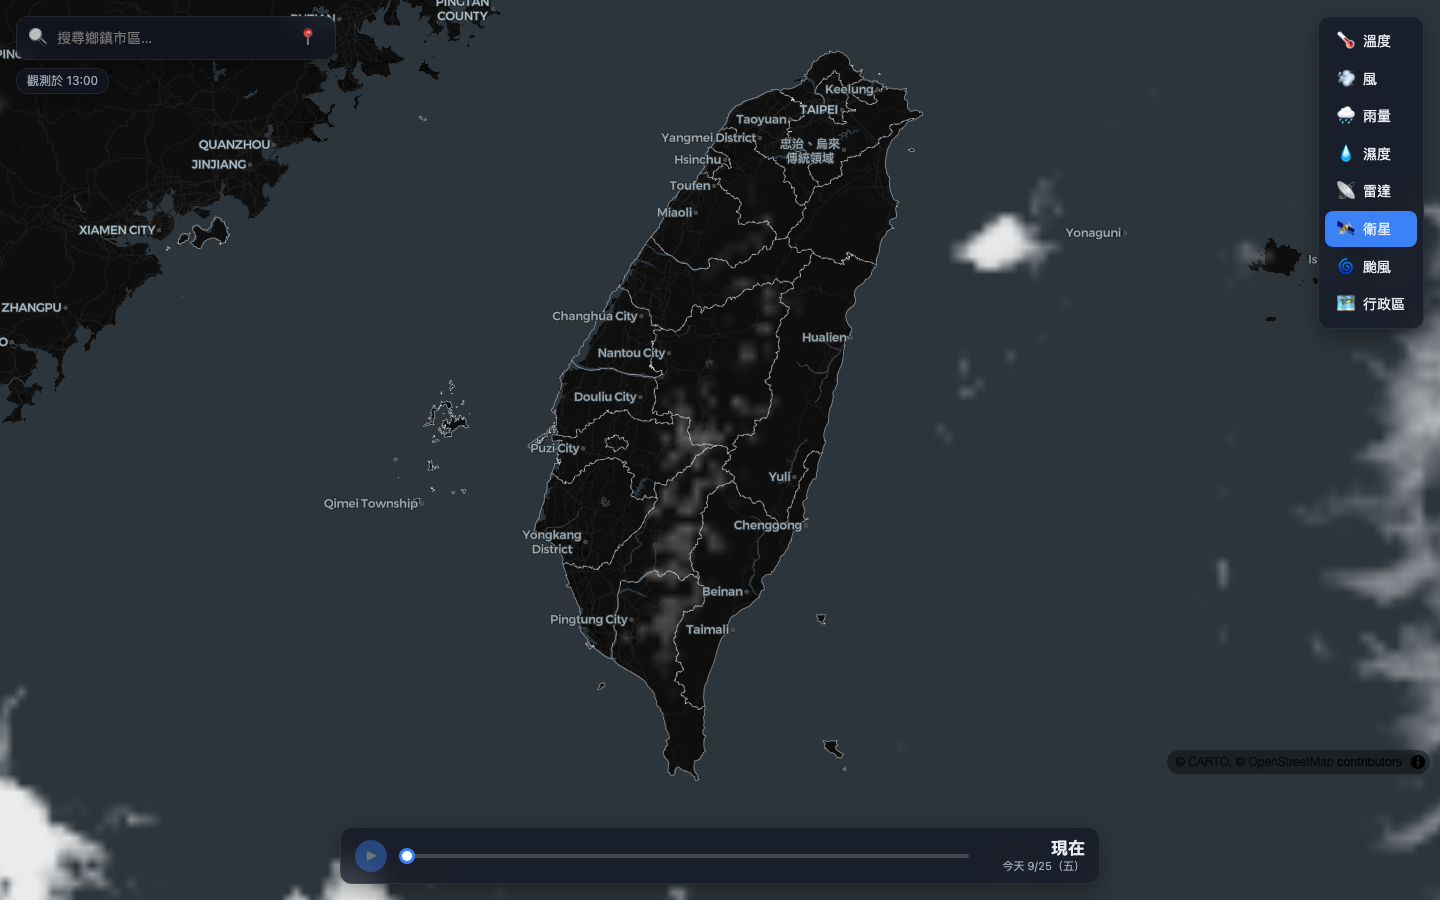
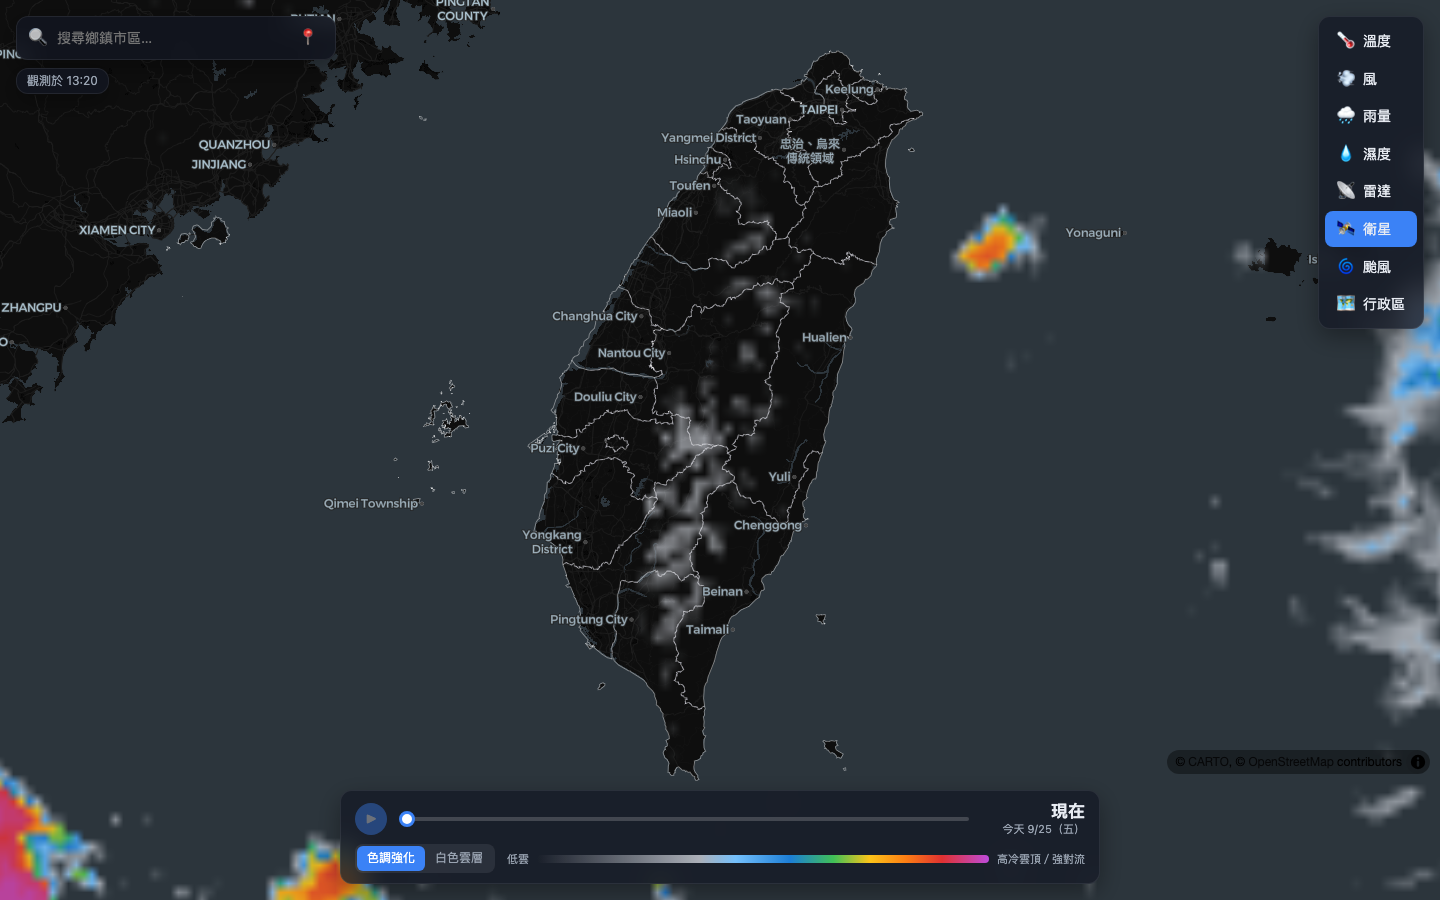
docs: show enhanced satellite clouds in readme
README 的衛星截圖仍是白色雲層，與目前預設的色調強化不符；
重拍並在標題註明色調強化。

The README satellite screenshot still showed plain white clouds
while the default is now the color-enhanced mode. Retake it and
label the caption accordingly.

diff --git a/README.md b/README.md
@@ -9,7 +9,7 @@
 | 溫度熱圖（即時測站 IDW 內插） | 風場粒子動畫 |
 |---|---|
 | ![溫度](docs/screenshots/temp.png) | ![風](docs/screenshots/wind.png) |
-| **雷達回波** | **衛星雲圖** |
+| **雷達回波** | **衛星雲圖（色調強化）** |
 | ![雷達](docs/screenshots/radar.png) | ![衛星](docs/screenshots/satellite.png) |
 
 | 鄉鎮預報卡片（72 小時曲線＋一週預報） | 手機版 |
